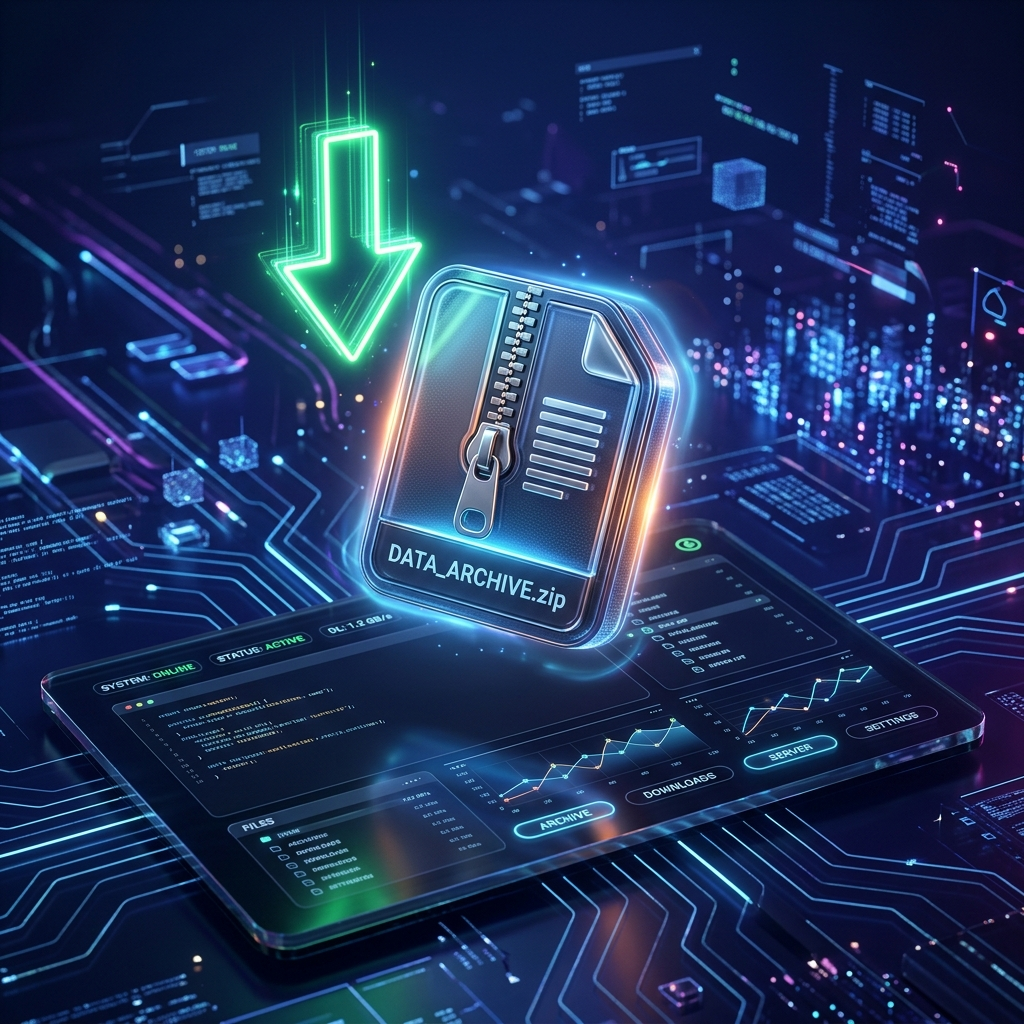
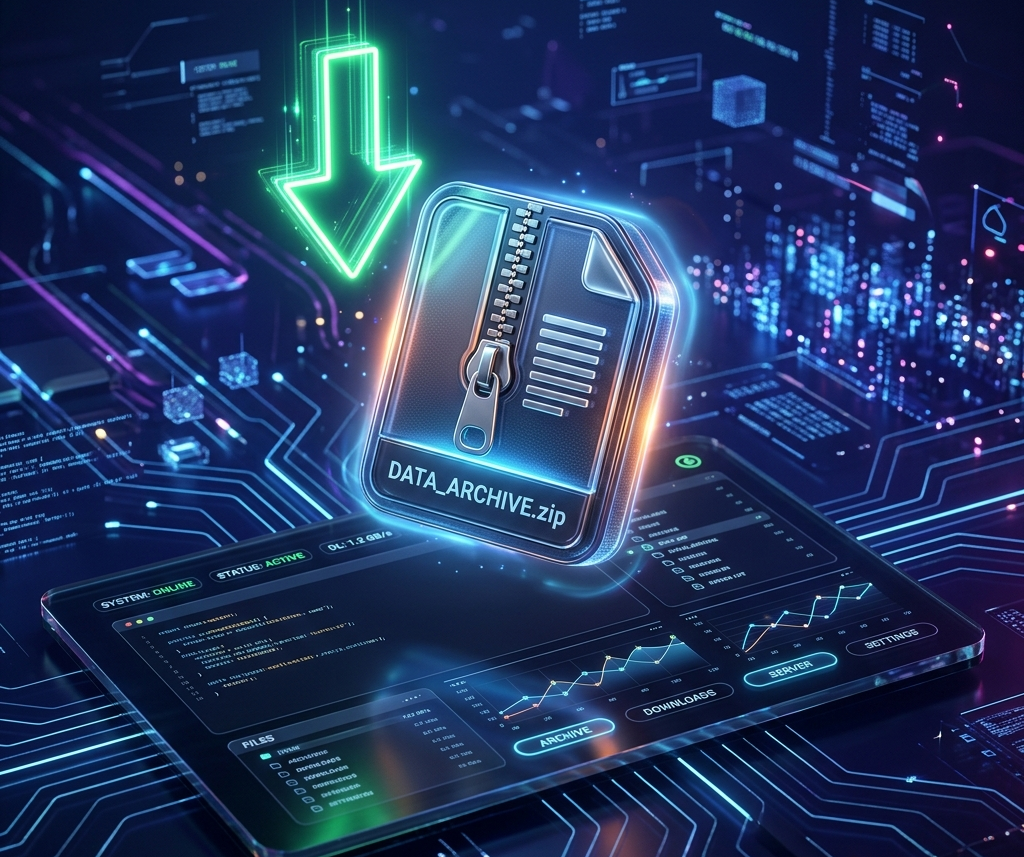
style: standardize aspect ratios for timeline illustrations and use CSS classes for layout

diff --git a/promo/style.css b/promo/style.css
@@ -927,6 +927,34 @@ img {
   box-shadow: 0 6px 20px rgba(34, 197, 94, 0.6);
 }
 
+.timeline-step-img-container {
+  margin-block-start: auto;
+  padding-block-start: 1.5rem;
+  width: 100%;
+}
+
+.timeline-step-img-wrapper {
+  border-radius: var(--radius-md);
+  overflow: hidden;
+  border: 1px solid rgba(255, 255, 255, 0.08);
+  box-shadow: var(--card-shadow-lg);
+  aspect-ratio: 1024 / 857;
+  background-color: rgba(0, 0, 0, 0.2);
+}
+
+.timeline-step-img {
+  width: 100%;
+  height: 100%;
+  object-fit: cover;
+  display: block;
+  transition: transform var(--transition-normal) ease;
+}
+
+.timeline-step:hover .timeline-step-img {
+  transform: scale(1.04);
+}
+
+
 /* --- 10. Turnkey Cloud Teaser --- */
 .teaser-section {
   position: relative;

diff --git a/promo/index.html b/promo/index.html
@@ -305,8 +305,10 @@
             <div class="timeline-step-number" aria-hidden="true">1</div>
             <h3>Download ZIP</h3>
             <p>Grab the latest pre-compiled, production-ready release ZIP containing the optimized application build directly from GitHub.</p>
-            <div style="margin-block-start: auto; padding-block-start: 1.5rem; border-radius: var(--radius-md); overflow: hidden; border: 1px solid rgba(255, 255, 255, 0.08); box-shadow: var(--card-shadow-lg);">
-              <img src="images/download_zip.png" alt="Illustration of downloading the release ZIP file" style="width: 100%;">
+            <div class="timeline-step-img-container">
+              <div class="timeline-step-img-wrapper">
+                <img src="images/download_zip.png" alt="Illustration of downloading the release ZIP file" class="timeline-step-img">
+              </div>
             </div>
           </div>
 
@@ -315,8 +317,10 @@
             <div class="timeline-step-number" aria-hidden="true">2</div>
             <h3>Upload &amp; Extract</h3>
             <p>Upload the ZIP archive to your web host server folder (e.g., standard Apache, Nginx, Raspberry Pi, cPanel, or local XAMPP).</p>
-            <div style="margin-block-start: auto; padding-block-start: 1.5rem; border-radius: var(--radius-md); overflow: hidden; border: 1px solid rgba(255, 255, 255, 0.08); box-shadow: var(--card-shadow-lg);">
-              <img src="images/upload_extract.png" alt="Illustration of uploading and extracting the ZIP archive" style="width: 100%;">
+            <div class="timeline-step-img-container">
+              <div class="timeline-step-img-wrapper">
+                <img src="images/upload_extract.png" alt="Illustration of uploading and extracting the ZIP archive" class="timeline-step-img">
+              </div>
             </div>
           </div>
 
@@ -325,8 +329,10 @@
             <div class="timeline-step-number" aria-hidden="true">3</div>
             <h3>Run Web Setup</h3>
             <p>Open your browser and load the URL. The automated 5-minute setup wizard takes over, validates server packages, links MySQL, and secures your password.</p>
-            <div style="margin-block-start: auto; padding-block-start: 1.5rem; border-radius: var(--radius-md); overflow: hidden; border: 1px solid rgba(255, 255, 255, 0.08); box-shadow: var(--card-shadow-lg);">
-              <img src="images/09_setup_wizard.png" alt="Screenshot of the DIY Inventory automated setup wizard running in a web browser" style="width: 100%;">
+            <div class="timeline-step-img-container">
+              <div class="timeline-step-img-wrapper">
+                <img src="images/09_setup_wizard.png" alt="Screenshot of the DIY Inventory automated setup wizard running in a web browser" class="timeline-step-img">
+              </div>
             </div>
           </div>
         </div>